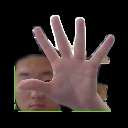
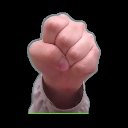
答辩

diff --git a/其他大作业/软件实践/tf_rps_gesture_classifier.py b/其他大作业/软件实践/tf_rps_gesture_classifier.py
@@ -20,10 +20,8 @@ from pathlib import Path
 from time import perf_counter
 # 设置 TensorFlow 日志等级，减少无关提示输出。
 os.environ.setdefault("TF_CPP_MIN_LOG_LEVEL", "1")
-
 # 导入 matplotlib，用来保存训练曲线图。
 import matplotlib
-
 # 切换到 Agg 后端，让程序可以在无窗口环境保存图片。
 matplotlib.use("Agg")
 # 导入 pyplot，用来绘制准确率和损失曲线。
@@ -33,7 +31,6 @@ import numpy as np
 
 # 先把 TensorFlow 占位为空，后面需要时再真正导入。
 tf = None
-
 
 #示当前 Python 文件所在的目录
 PROJECT_DIR = Path(__file__).resolve().parent
@@ -520,54 +517,44 @@ def build_model(image_size: int, learning_rate: float):
             # 调用 Keras 接口搭建、训练或加载模型。
             tf.keras.layers.Rescaling(1.0 / 255),  # 将像素值从 0-255 归一化到 0-1。
             # 数据增强：模拟手势的轻微翻转、旋转、移动、缩放和光照变化，提升泛化能力。
-            # 调用 Keras 接口搭建、训练或加载模型。
+            #  随机水平翻转
             tf.keras.layers.RandomFlip("horizontal"),
-            # 调用 Keras 接口搭建、训练或加载模型。
+            # 随机旋转
             tf.keras.layers.RandomRotation(0.03),
-            # 调用 Keras 接口搭建、训练或加载模型。
+            # 随机平移
             tf.keras.layers.RandomTranslation(0.04, 0.04),
-            # 调用 Keras 接口搭建、训练或加载模型。
+            # 随机缩放
             tf.keras.layers.RandomZoom(0.06),
-            # 调用 Keras 接口搭建、训练或加载模型。
+            # 随机亮度变化
             tf.keras.layers.RandomBrightness(0.16, value_range=(0, 1)),
-            # 调用 Keras 接口搭建、训练或加载模型。
+            # 随机对比度变化
             tf.keras.layers.RandomContrast(0.18),
             # 三组卷积层和池化层用于提取手指边缘、掌心轮廓等局部视觉特征。
-            # 调用 Keras 接口搭建、训练或加载模型。
-            tf.keras.layers.Conv2D(32, 3, padding="same", activation="relu"),
-            # 调用 Keras 接口搭建、训练或加载模型。
+            #卷积，提取图片特征
+            tf.keras.layers.Conv2D(32, 3, padding="same", activation="relu"),#边缘信息
+            #池化，缩小特征图，保留信息
             tf.keras.layers.MaxPooling2D(),
-            # 调用 Keras 接口搭建、训练或加载模型。
-            tf.keras.layers.Conv2D(64, 3, padding="same", activation="relu"),
-            # 调用 Keras 接口搭建、训练或加载模型。
+            tf.keras.layers.Conv2D(64, 3, padding="same", activation="relu"),#局部形状
             tf.keras.layers.MaxPooling2D(),
-            # 调用 Keras 接口搭建、训练或加载模型。
-            tf.keras.layers.Conv2D(128, 3, padding="same", activation="relu"),
-            # 调用 Keras 接口搭建、训练或加载模型。
+            tf.keras.layers.Conv2D(128, 3, padding="same", activation="relu"),#完整手势特征
             tf.keras.layers.MaxPooling2D(),
-            # 调用 Keras 接口搭建、训练或加载模型。
             tf.keras.layers.Flatten(),  # 将二维特征图展平成一维向量。
-            # 调用 Keras 接口搭建、训练或加载模型。
             tf.keras.layers.Dropout(0.35),  # 防止模型只记住训练集，降低过拟合风险。
-            # 调用 Keras 接口搭建、训练或加载模型。
+            #全连接层
             tf.keras.layers.Dense(128, activation="relu"),
-            # 调用 Keras 接口搭建、训练或加载模型。
+            #输出
             tf.keras.layers.Dense(len(CLASSES), activation="softmax"),  # 输出三类手势的概率。
-        # 结束上面的多行结构。
         ]
-    # 结束上面的多行结构。
     )
-    # 执行“搭建并编译从零训练的 CNN 模型”中的这一行操作。
+    #配置模型的训练方式
     model.compile(
-        # 调用 Keras 接口搭建、训练或加载模型。
+        #根据模型的错误来调整模型参数
         optimizer=tf.keras.optimizers.Adam(learning_rate),
-        # 计算并保存 `loss`，供后续逻辑使用。
+        #损失函数，预测和真实答案的差距
         loss="categorical_crossentropy",
-        # 计算并保存 `metrics`，供后续逻辑使用。
+        #评估指标，准确率
         metrics=["accuracy"],
-    # 结束上面的多行结构。
     )
-    # 返回 `model`，把结果交给调用者。
     return model
 
 
@@ -678,7 +665,11 @@ def train_model(args):
 
     ]
     # 开始训练神经网络模型。
-    history = model.fit(train_ds, validation_data=val_ds, epochs=args.epochs, callbacks=callbacks)
+    history = model.fit(train_ds, 
+                        validation_data=val_ds, 
+                        epochs=args.epochs, #训练轮数
+                        callbacks=callbacks
+                        )
     # 在验证集上评估模型效果。
     loss, acc = model.evaluate(val_ds, verbose=0)
     #计算混淆矩阵
@@ -761,7 +752,7 @@ def skin_fraction(roi, cv2):
     mask = cv2.inRange(ycrcb, lower, upper)
     # 对掩码做中值滤波，进一步平滑边缘。
     mask = cv2.medianBlur(mask, 5)
-    # 返回 `cv2.countNonZero(mask) / float(mask.shape[0] * mask.shape[1])`，把结果交给调用者。
+    #非零像素比例
     return cv2.countNonZero(mask) / float(mask.shape[0] * mask.shape[1])
 
 
